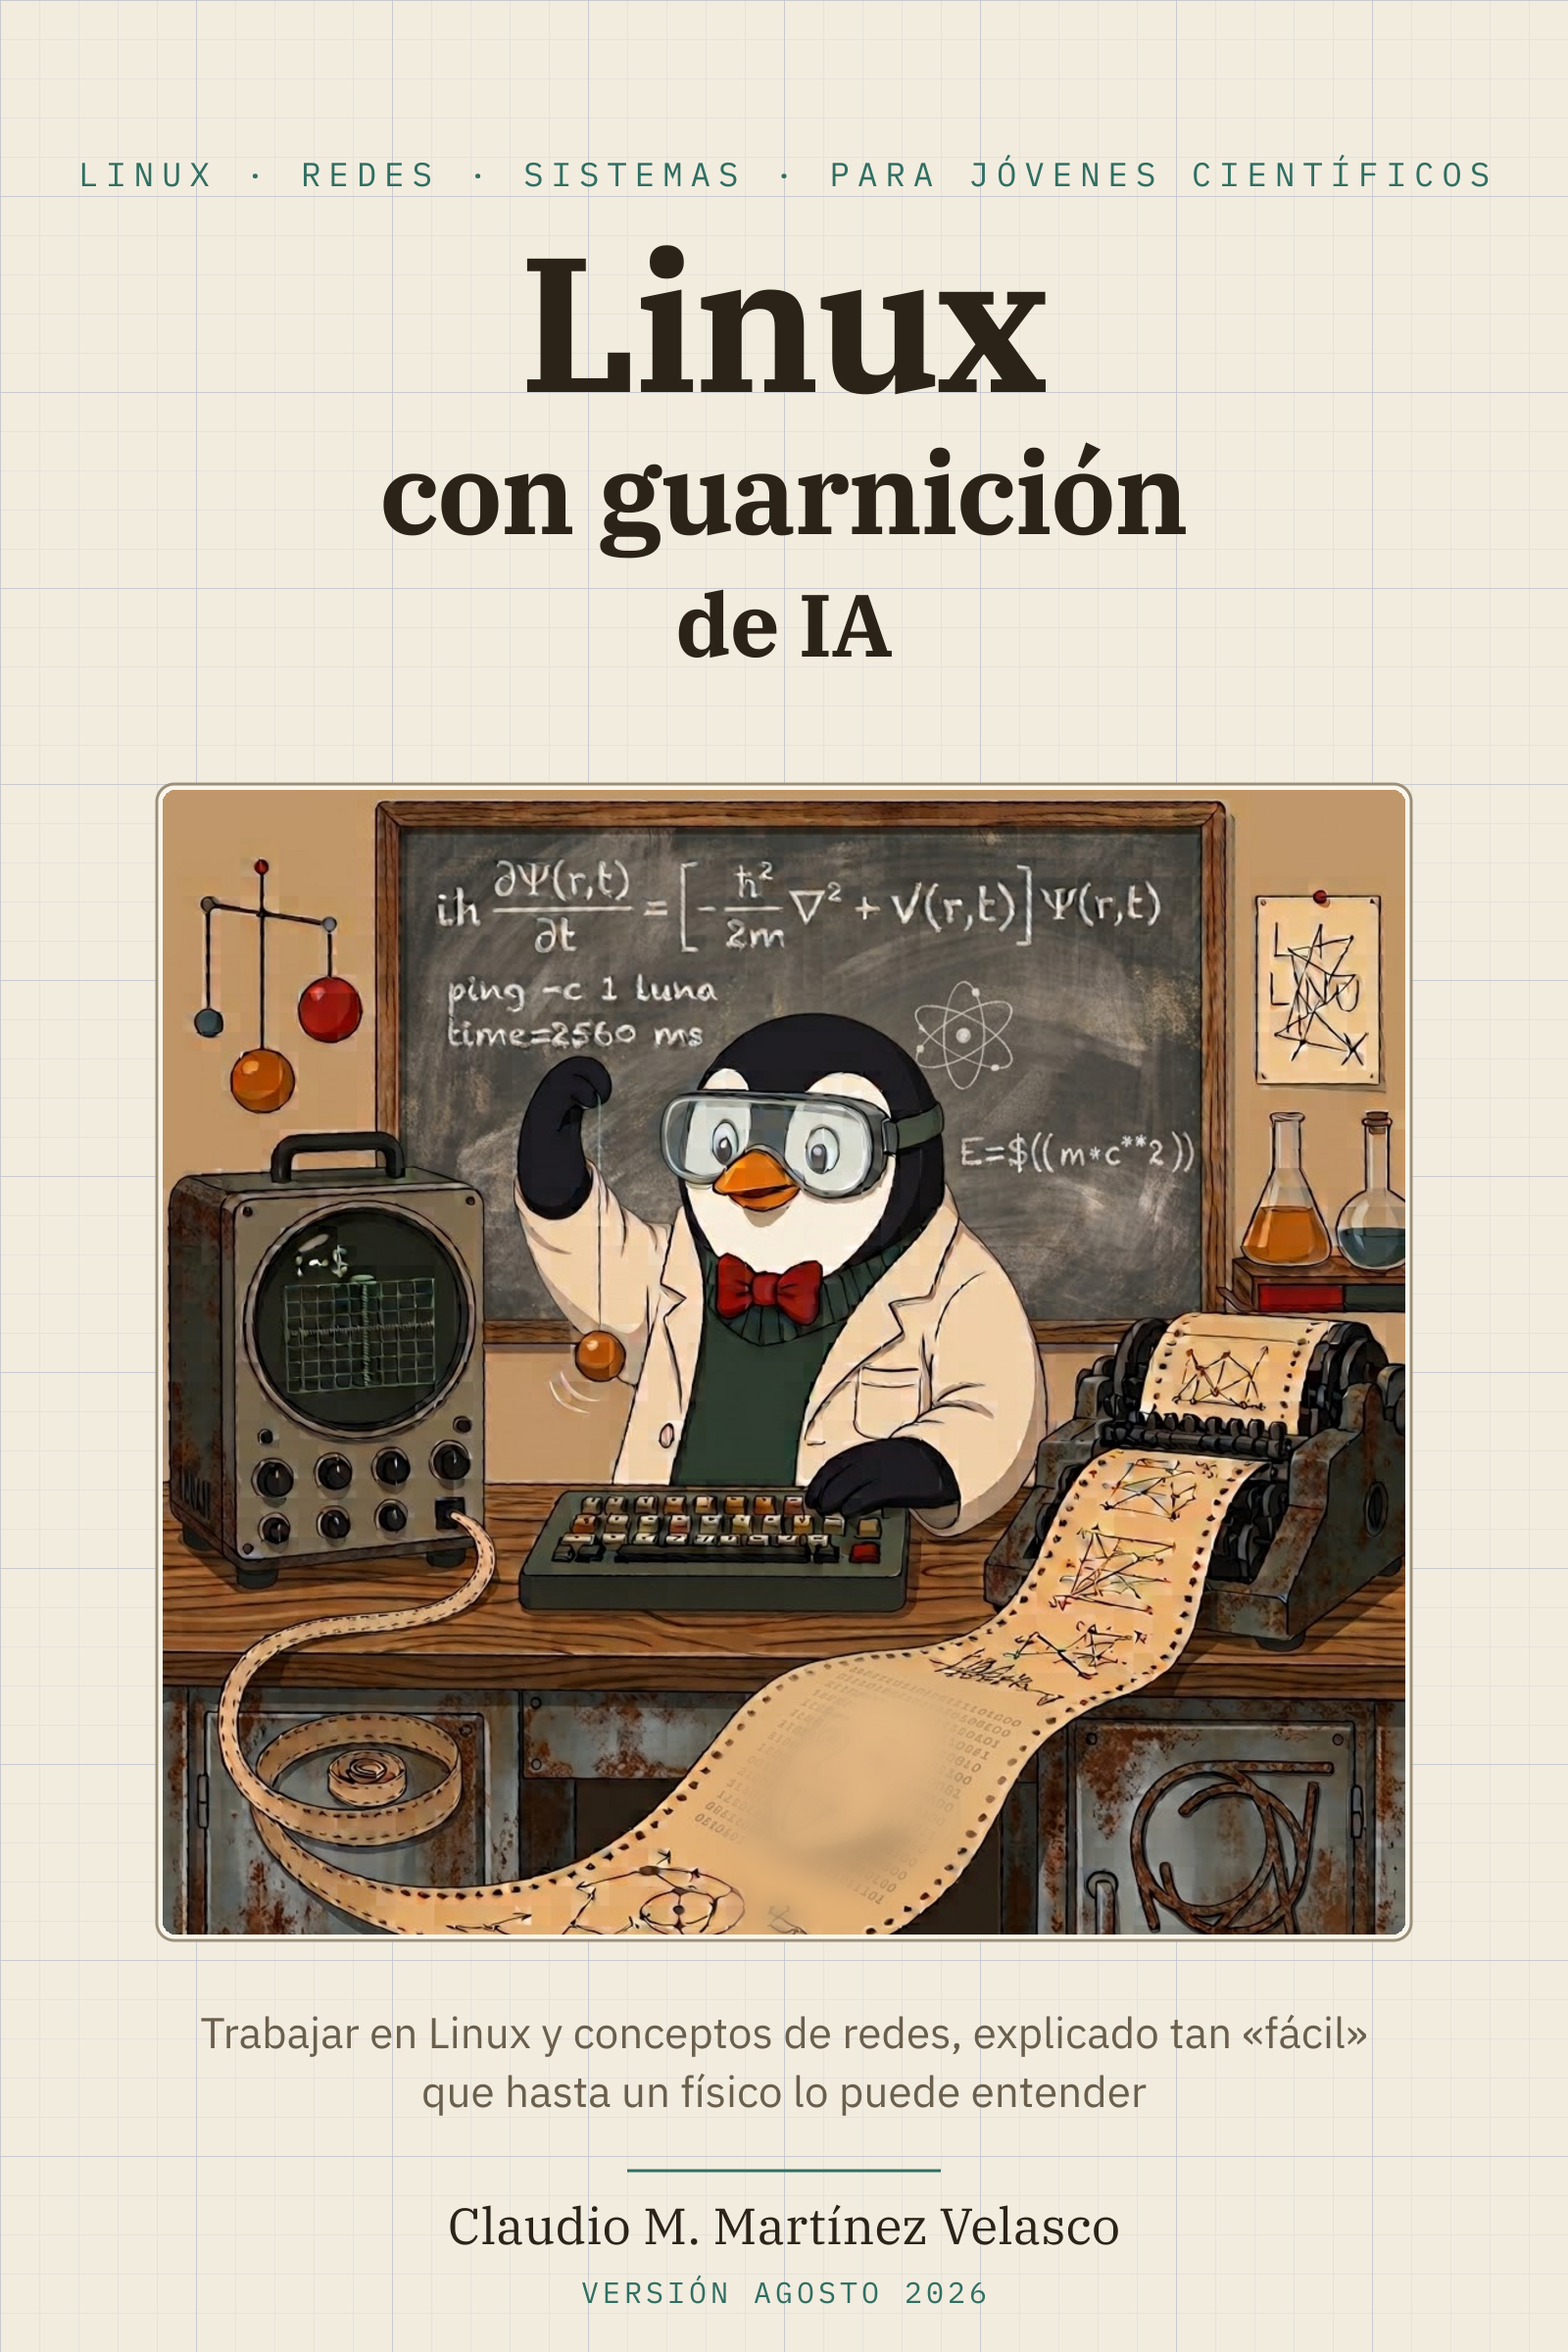
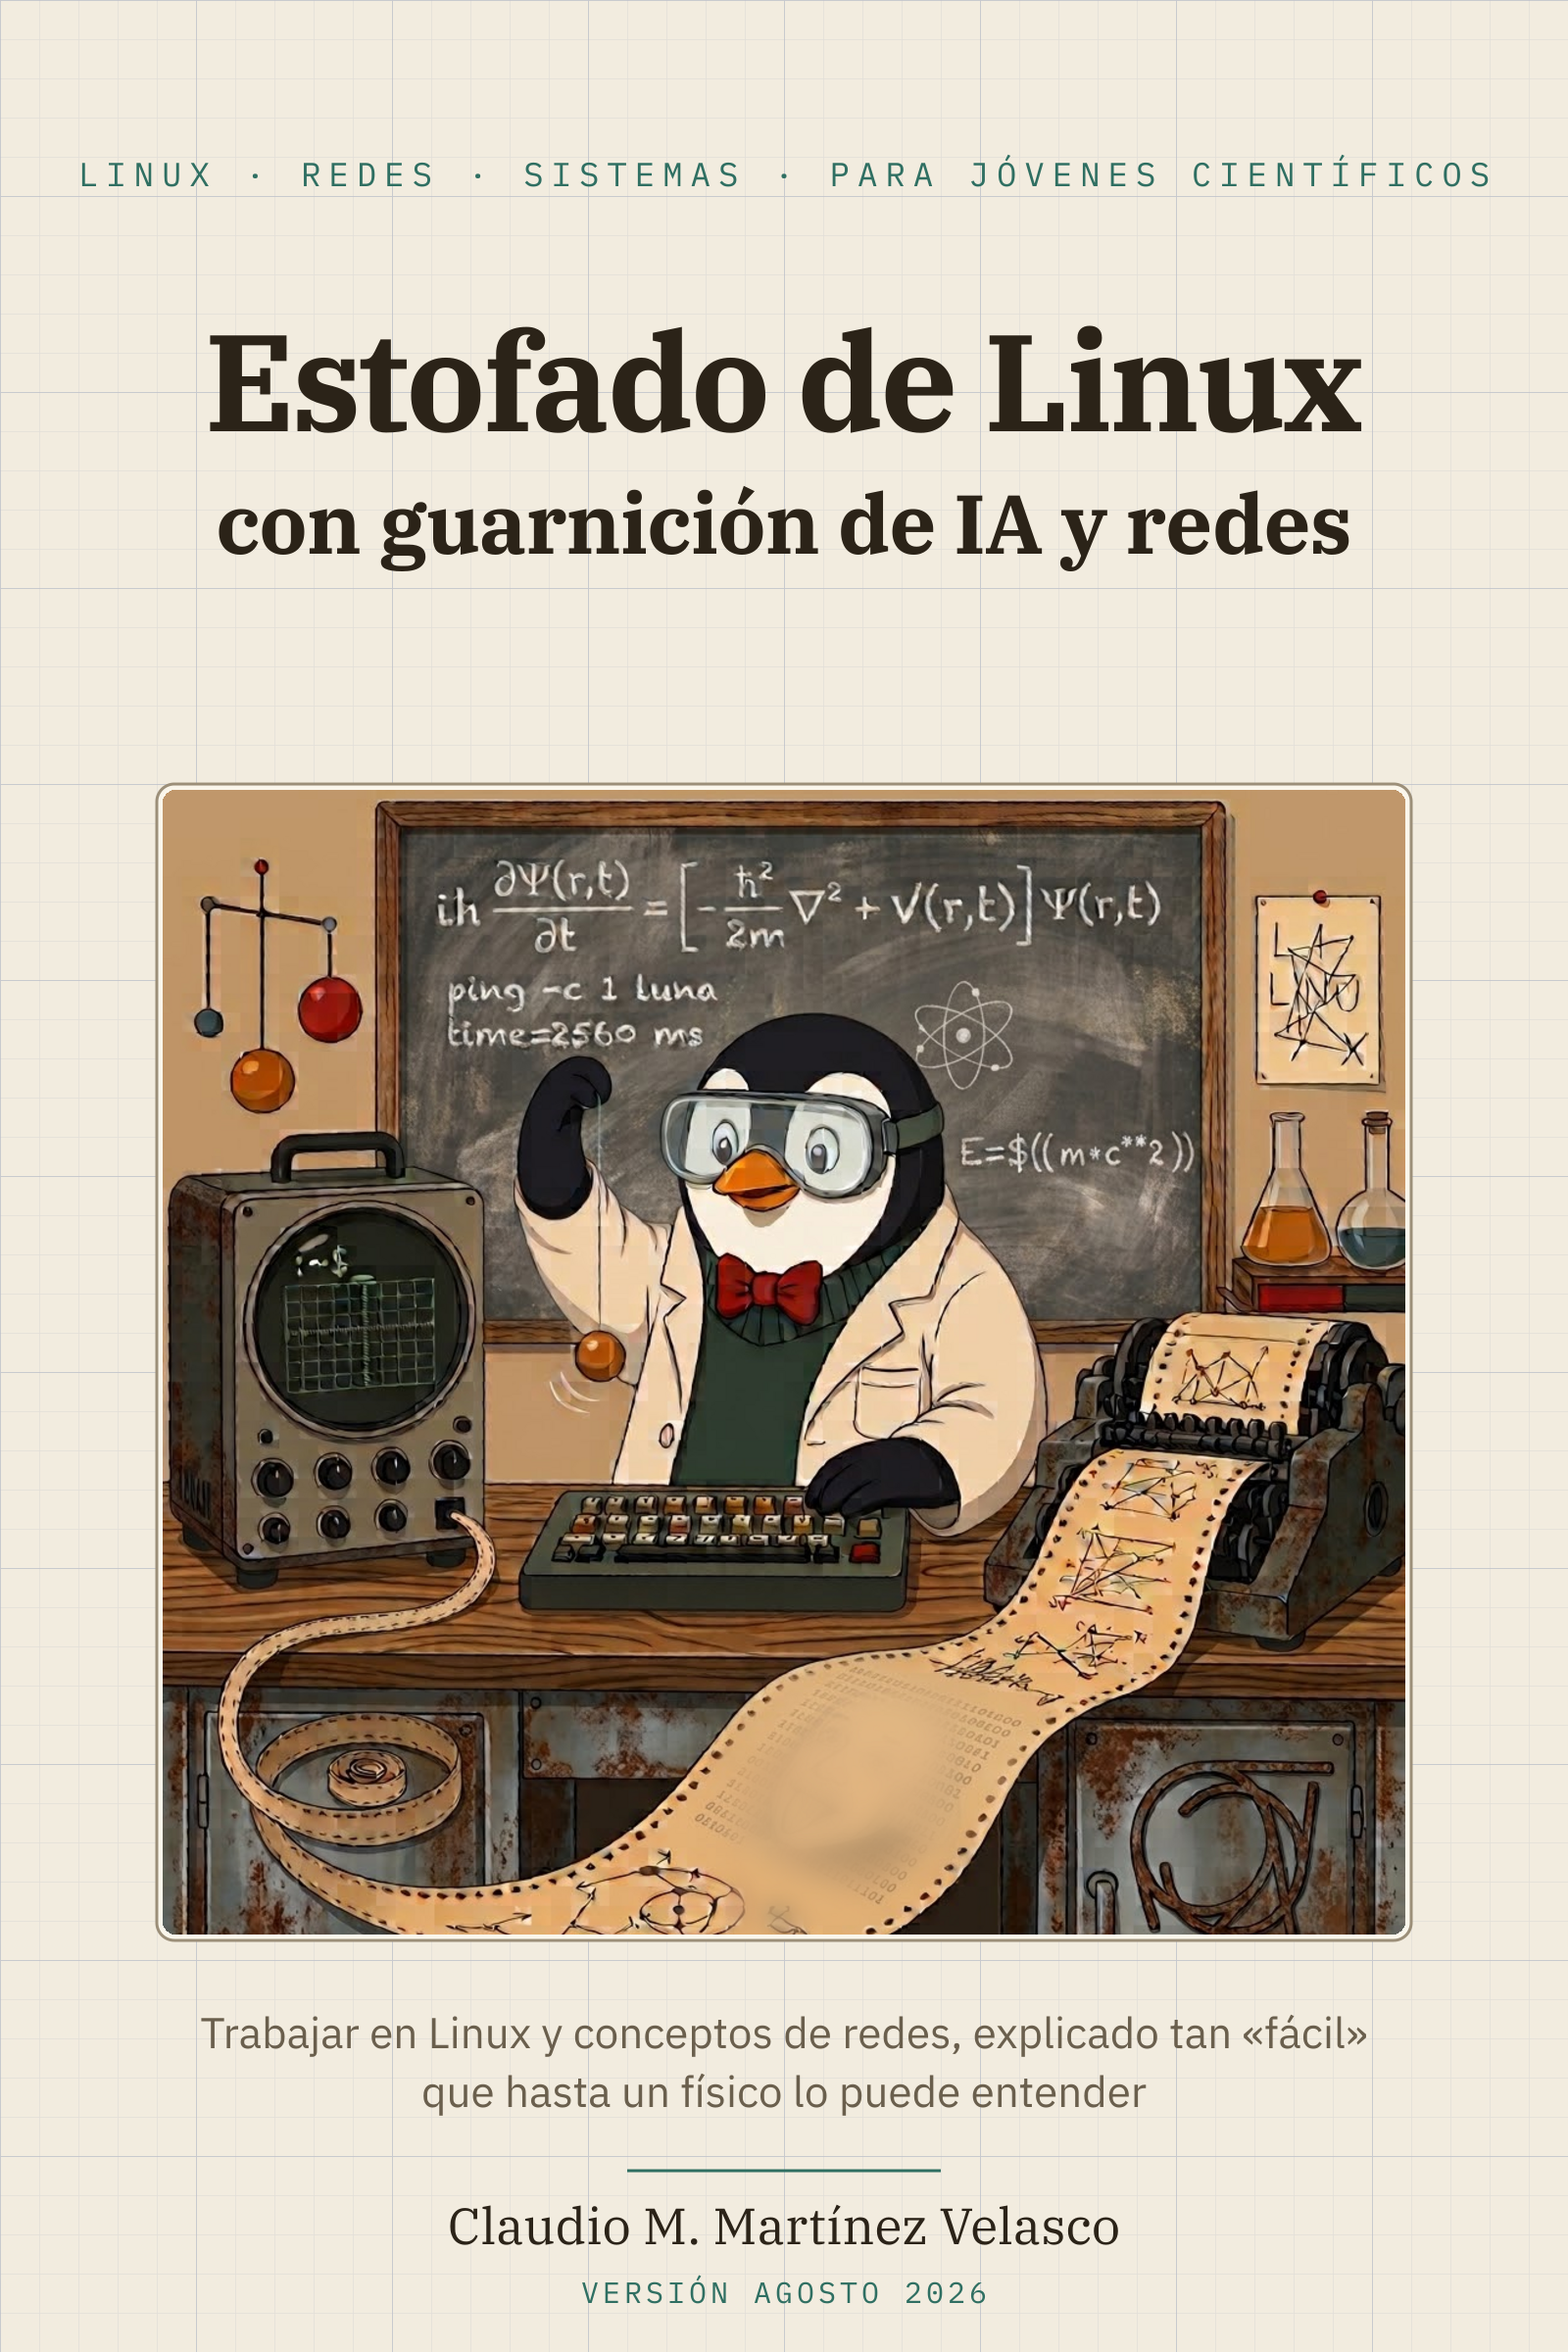
Título final: «Estofado de Linux, con guarnición de IA y redes»
Ampliación de la metáfora de comida: Linux es el plato principal
(estofado, se cuece sesión a sesión), la IA y las redes son la
guarnición. La frase descriptiva larga baja de subtítulo a texto
bajo la ilustración de portada y en la página de créditos del PDF.
Portada retipografiada a dos líneas, un solo color.

Changed region(s): [[0.125, 0.0938, 0.875, 0.2812]]

diff --git a/_diseno.md b/_diseno.md
@@ -122,7 +122,7 @@ El libro evoluciona con la IA y con la realimentación de los lectores. Cada ver
 
 - Portada bonita para el libro (web y PDF; Quarto admite `cover-image`) — se hará más adelante.
 - **Pasada final del PDF** (decidido 2026-08-24: el PDF se aparca hasta terminar la redacción; la web es el canal durante el piloto): reactivar formato `pdf` y `downloads` en `_quarto.yml` y los pasos tinytex/librsvg del workflow; colorear los bloques de terminal en PDF con un tema claro (ampliar `tema/terminal.lua` con salida LaTeX coloreada); revisar la tabla estrecha de §1.1 en A4.
-- ~~Nombre del curso~~ → decidido (2026-08-23), **cambiado** (2026-08-30): «Bendito maldito Linux» generaba una asociación negativa con la palabra «maldito»; nuevo título **«Linux con guarnición de IA»** — la IA como acompañamiento, Linux como plato principal, coherente con el criterio ya fijado de «conocer, no dominar» la IA. Subtítulo sin cambios: «Trabajar en Linux y conceptos de redes, explicado tan «fácil» que hasta un físico lo puede entender».
+- ~~Nombre del curso~~ → decidido (2026-08-23), **cambiado** (2026-08-30): «Bendito maldito Linux» generaba una asociación negativa con la palabra «maldito». Título intermedio «Linux con guarnición de IA», **título final** tras seguir puliendo la metáfora de comida: **«Estofado de Linux»** con subtítulo **«con guarnición de IA y redes»** — Linux es el plato principal (estofado: se cuece a fuego lento, sesión a sesión), la IA y las redes son la guarnición. La frase larga de siempre («Trabajar en Linux y conceptos de redes, explicado tan «fácil» que hasta un físico lo puede entender») baja de rango: ya no es el `subtitle` de Quarto, queda como texto descriptivo bajo la ilustración de portada y en la página de créditos del PDF.
 - Distribución Debian vs Mint para la VM del bloque C (Debian es más «servidor real»; Mint es continuidad con su escritorio — propuesta: Mint no, Debian sí, y explicar por qué en el propio capítulo).
 - Nombre del curso.
 - Si el bloque D incluye o no un vistazo a DNS filtrado tipo Pi-hole como ejercicio avanzado opcional.

diff --git a/README.md b/README.md
@@ -1,4 +1,4 @@
-# Linux con guarnición de IA
+# Estofado de Linux, con guarnición de IA y redes
 
 Curso introductorio para estudiantes de ciencias e ingeniería: terminal, sistema, virtualización,
 redes y trabajo remoto. 13 sesiones + proyecto final. **Versión: agosto 2026** (las versiones llevan mes y año; el libro evoluciona con la IA y con la realimentación de los lectores).
